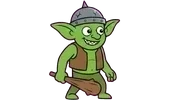
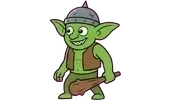
fix: responsive character width to prevent mobile overflow and HP bar occlusion

Changed region(s): [[0.2647, 0.0, 0.7353, 1.0]]

diff --git a/src/components/EnemyCharacter.jsx b/src/components/EnemyCharacter.jsx
@@ -654,8 +654,8 @@ export function EnemyCharacter({ phase, enemy, hitKey, raging = false }) {
           {/* scaleX(-1) is in its own div so Framer Motion's x animation can't clobber it */}
           <div style={{ transform: 'scaleX(-1)' }}>
           {rasterSprites ? (
-            <div style={{ position: 'relative', display: 'flex', alignItems: 'flex-end', justifyContent: 'center', width: 'min(160px, 35vw)', height: 'min(150px, 33vw)', overflow: 'visible' }}>
-              <img key={sprite} src={rasterSprites[sprite]} style={{ height: 'min(150px, 33vw)', width: 'auto', display: 'block' }} alt="" />
+            <div style={{ position: 'relative', display: 'flex', alignItems: 'flex-end', justifyContent: 'center' }}>
+              <img key={sprite} src={rasterSprites[sprite]} style={{ maxHeight: 'min(130px, 28vw)', maxWidth: 'min(200px, 44vw)', width: 'auto', height: 'auto', display: 'block' }} alt="" />
               <AnimatePresence>
                 {splashKey !== null && <HitSplash key={splashKey} color={rasterSprites.splashColor} />}
               </AnimatePresence>

diff --git a/src/components/KnightCharacter.jsx b/src/components/KnightCharacter.jsx
@@ -254,11 +254,11 @@ export function KnightCharacter({ phase, hitKey, useRaster }) {
         <motion.div animate={moveControls} style={{ willChange: 'transform' }}>
           {raster ? (
             /* ── Raster sprite swap mode ── */
-            <div style={{ display: 'flex', alignItems: 'flex-end', justifyContent: 'center', width: 'min(160px, 35vw)', height: 'min(150px, 33vw)', overflow: 'visible' }}>
+            <div style={{ display: 'flex', alignItems: 'flex-end', justifyContent: 'center' }}>
               <img
                 key={sprite}
                 src={SPRITES[sprite]}
-                style={{ height: 'min(150px, 33vw)', width: 'auto', display: 'block' }}
+                style={{ maxHeight: 'min(130px, 28vw)', maxWidth: 'min(200px, 44vw)', width: 'auto', height: 'auto', display: 'block' }}
                 alt=""
               />
               <AnimatePresence>
